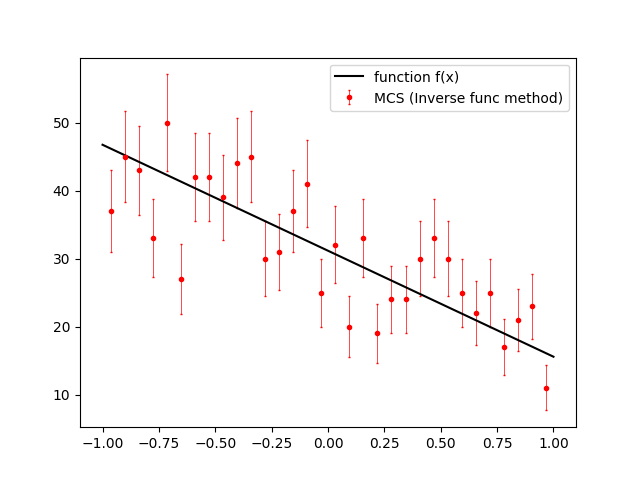
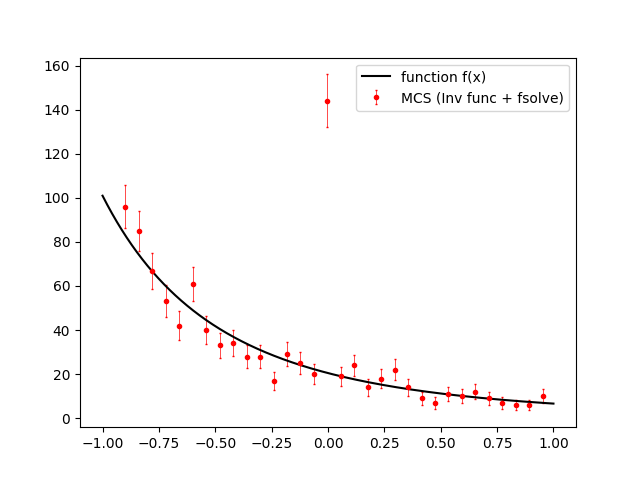
montecarlo tests inv func method + root finders fix

diff --git a/Montecarlo/montecarlo_test.py b/Montecarlo/montecarlo_test.py
@@ -359,15 +359,15 @@ elif exercise == 6 :
     beta = 1.0
 
     #n_samples = 3
-    sample_dim = 1.0e3
+    sample_dim = 1.0e2
     n_bins = round(sample_dim**0.5)
     counter = 0
-    tol = 1.0e-10
+    tol = 1.0e-8
     n_max = 1.0e5
 
     rng = np.random.default_rng()
 
-    test_func = 1
+    test_func = 0
     def myfunc(x):
         if test_func == 0: 
             #log parabola
@@ -384,7 +384,7 @@ elif exercise == 6 :
     arg = (myfunc, arg1, x_min)
 
     def accum_func(a, func, arg, min):
-        acc = integrate.quad(func, min, a, arg, epsabs=0.0, epsrel=1.0e-12)[0]
+        acc = integrate.quad(func, min, a, arg, epsabs=0.0, epsrel=1.0e-13)[0]
         return acc
     
     def func_shifter(x, func, args, value):

diff --git a/tests/tests.py b/tests/tests.py
@@ -210,7 +210,7 @@ elif test_numb == 6 :
         elif fb == 0.0 : res = b
 
         else:
-            while (abs(fb) >= tol):
+            while (abs(dx) >= tol):
                 k += 1
 
                 if k > n_max:
